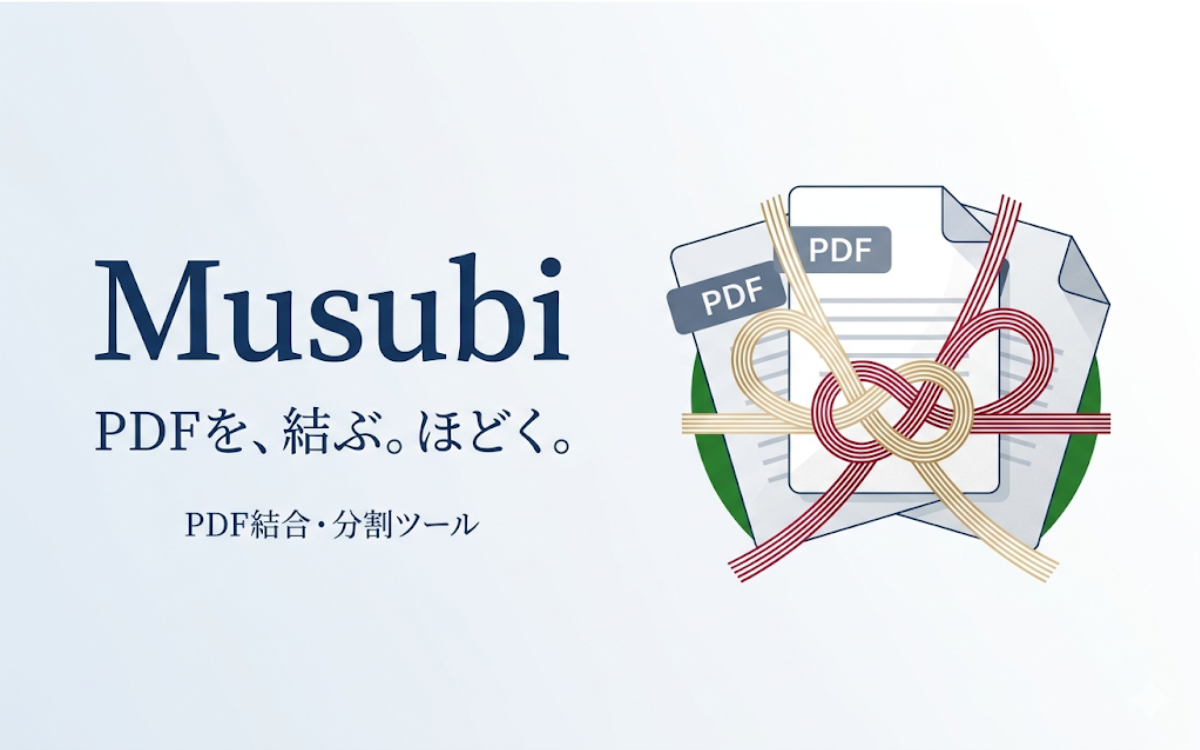
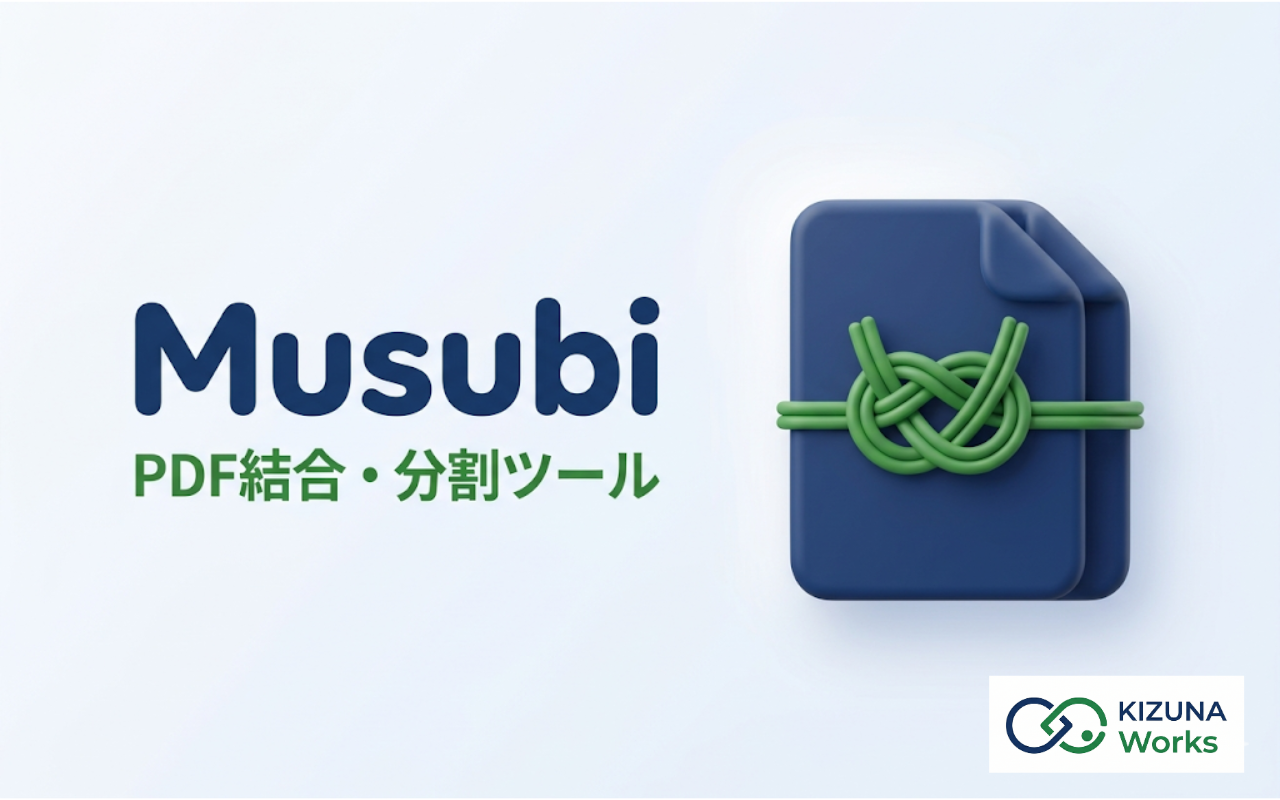
feat(tools): 無料ツール全8種のカードサムネイルをクレイ風で統一
Gemini/Nano Banana で生成したソフト3D（クレイ風・左テキスト＋右アイコン・
ブランド配色）の専用サムネイルに全ツールを統一。

- 上書き: stamp-maker(inkan) / natsuin / musubi のプレビュー画像（各1280×800）
- 新規: tsumugi / masuku / shuku / utsushi のプレビュー画像（各1280×800）
- tools.ts: Tsumugi/Masuku/Shuku/Utsushi を svg 指定→image 指定に変更、
  inkan/Natsuin/Musubi の imageWidth/Height を 1280×800 に更新

diff --git a/src/data/tools.ts b/src/data/tools.ts
@@ -56,9 +56,9 @@ export const tools: Tool[] = [
     miniIcon: '🔴',
     miniDescription: '電子印鑑メーカー',
     image: '/images/stamp-maker-preview.png',
-    imageAlt: 'inkan（電子印鑑メーカー）のプレビュー画像',
-    imageWidth: 949,
-    imageHeight: 813,
+    imageAlt: 'inkan（電子印鑑メーカー）のサムネイル画像',
+    imageWidth: 1280,
+    imageHeight: 800,
   },
   {
     file: 'natsuin.html',
@@ -71,9 +71,9 @@ export const tools: Tool[] = [
     miniIcon: '📄',
     miniDescription: 'PDF捺印ツール',
     image: '/images/natsuin-preview.png',
-    imageAlt: 'Natsuin（PDF捺印ツール）- PDFに電子印鑑・署名を配置できる無料ツール',
-    imageWidth: 2848,
-    imageHeight: 1504,
+    imageAlt: 'Natsuin（PDF捺印ツール）のサムネイル画像',
+    imageWidth: 1280,
+    imageHeight: 800,
   },
   {
     file: 'musubi.html',
@@ -86,8 +86,8 @@ export const tools: Tool[] = [
     miniIcon: '🔗',
     miniDescription: 'PDF結合・分割',
     image: '/images/musubi-preview.png',
-    imageAlt: 'Musubi（PDF結合・分割ツール）- PDFを結合・分割・並び替え・回転できる無料ツール',
-    imageWidth: 1200,
+    imageAlt: 'Musubi（PDF結合・分割ツール）のサムネイル画像',
+    imageWidth: 1280,
     imageHeight: 800,
   },
   {
@@ -100,45 +100,10 @@ export const tools: Tool[] = [
     tags: ['完全無料', '登録不要', 'QRコード生成'],
     miniIcon: '📱',
     miniDescription: 'QRコード生成',
-    svgLabel: 'QRコードジェネレーター',
-    svg: `<svg width="80" height="80" viewBox="0 0 72 72" fill="none" aria-hidden="true">
-            <rect x="2" y="2" width="24" height="24" rx="3" fill="none" stroke="#c8a872" stroke-width="2.5"/>
-            <rect x="8" y="8" width="12" height="12" fill="#c8a872"/>
-            <rect x="46" y="2" width="24" height="24" rx="3" fill="none" stroke="#c8a872" stroke-width="2.5"/>
-            <rect x="52" y="8" width="12" height="12" fill="#c8a872"/>
-            <rect x="2" y="46" width="24" height="24" rx="3" fill="none" stroke="#c8a872" stroke-width="2.5"/>
-            <rect x="8" y="52" width="12" height="12" fill="#c8a872"/>
-            <rect x="30" y="2" width="4" height="4" fill="#c8a872" opacity="0.8"/>
-            <rect x="36" y="2" width="4" height="4" fill="#c8a872" opacity="0.4"/>
-            <rect x="42" y="2" width="4" height="4" fill="#c8a872" opacity="0.8"/>
-            <rect x="30" y="8" width="4" height="4" fill="#c8a872" opacity="0.4"/>
-            <rect x="36" y="8" width="4" height="4" fill="#c8a872" opacity="0.8"/>
-            <rect x="30" y="14" width="4" height="4" fill="#c8a872" opacity="0.8"/>
-            <rect x="42" y="14" width="4" height="4" fill="#c8a872" opacity="0.4"/>
-            <rect x="30" y="20" width="4" height="4" fill="#c8a872" opacity="0.4"/>
-            <rect x="36" y="20" width="4" height="4" fill="#c8a872" opacity="0.8"/>
-            <rect x="42" y="20" width="4" height="4" fill="#c8a872" opacity="0.8"/>
-            <rect x="46" y="30" width="4" height="4" fill="#c8a872" opacity="0.8"/>
-            <rect x="52" y="30" width="4" height="4" fill="#c8a872" opacity="0.4"/>
-            <rect x="58" y="30" width="4" height="4" fill="#c8a872" opacity="0.8"/>
-            <rect x="64" y="30" width="4" height="4" fill="#c8a872" opacity="0.4"/>
-            <rect x="46" y="36" width="4" height="4" fill="#c8a872" opacity="0.4"/>
-            <rect x="52" y="36" width="4" height="4" fill="#c8a872" opacity="0.8"/>
-            <rect x="58" y="36" width="4" height="4" fill="#c8a872" opacity="0.4"/>
-            <rect x="64" y="36" width="4" height="4" fill="#c8a872" opacity="0.8"/>
-            <rect x="46" y="42" width="4" height="4" fill="#c8a872" opacity="0.8"/>
-            <rect x="52" y="42" width="4" height="4" fill="#c8a872" opacity="0.4"/>
-            <rect x="64" y="42" width="4" height="4" fill="#c8a872" opacity="0.8"/>
-            <rect x="46" y="48" width="4" height="4" fill="#c8a872" opacity="0.4"/>
-            <rect x="52" y="48" width="4" height="4" fill="#c8a872" opacity="0.8"/>
-            <rect x="58" y="48" width="4" height="4" fill="#c8a872" opacity="0.8"/>
-            <rect x="64" y="48" width="4" height="4" fill="#c8a872" opacity="0.4"/>
-            <rect x="2" y="30" width="4" height="4" fill="#c8a872" opacity="0.8"/>
-            <rect x="8" y="30" width="4" height="4" fill="#c8a872" opacity="0.4"/>
-            <rect x="14" y="30" width="4" height="4" fill="#c8a872" opacity="0.8"/>
-            <rect x="20" y="30" width="4" height="4" fill="#c8a872" opacity="0.4"/>
-            <rect x="30" y="30" width="10" height="10" fill="#c8a872" opacity="0.6"/>
-          </svg>`,
+    image: '/images/tsumugi-preview.png',
+    imageAlt: 'Tsumugi（QRコードジェネレーター）のサムネイル画像',
+    imageWidth: 1280,
+    imageHeight: 800,
   },
   {
     file: 'masuku.html',
@@ -150,15 +115,10 @@ export const tools: Tool[] = [
     tags: ['完全無料', '登録不要', 'マスキング'],
     miniIcon: '⬛',
     miniDescription: '画像/PDFマスキング',
-    svgLabel: 'マスキングツール',
-    svg: `<svg width="80" height="80" viewBox="0 0 64 64" fill="none" aria-hidden="true">
-            <rect x="4" y="10" width="56" height="44" rx="4" fill="#23252c" stroke="#c8a872" stroke-width="2.5"/>
-            <rect x="10" y="18" width="20" height="14" rx="2" fill="#c8a872" opacity="0.3"/>
-            <line x1="34" y1="22" x2="54" y2="22" stroke="#c8a872" stroke-width="2" stroke-linecap="round" opacity="0.5"/>
-            <line x1="34" y1="28" x2="54" y2="28" stroke="#c8a872" stroke-width="2" stroke-linecap="round" opacity="0.3"/>
-            <rect x="10" y="38" width="44" height="10" rx="2" fill="#c8a872" opacity="0.85"/>
-            <line x1="14" y1="43" x2="50" y2="43" stroke="#1a1b20" stroke-width="2.5" stroke-linecap="round" opacity="0.5"/>
-          </svg>`,
+    image: '/images/masuku-preview.png',
+    imageAlt: 'Masuku（画像・PDFマスキングツール）のサムネイル画像',
+    imageWidth: 1280,
+    imageHeight: 800,
   },
   {
     file: 'Shuku.html',
@@ -170,18 +130,10 @@ export const tools: Tool[] = [
     tags: ['完全無料', '登録不要', '画像変換'],
     miniIcon: '📦',
     miniDescription: '画像圧縮ツール',
-    svgLabel: '画像変換・圧縮・リサイズ',
-    svg: `<svg width="80" height="80" viewBox="0 0 64 64" fill="none" aria-hidden="true">
-            <rect x="6" y="6" width="28" height="28" rx="3" fill="#c8a872" opacity="0.25" stroke="#c8a872" stroke-width="1.5"/>
-            <rect x="6" y="6" width="28" height="28" rx="3" fill="none" stroke="#c8a872" stroke-width="1.5"/>
-            <rect x="10" y="10" width="20" height="14" rx="1.5" fill="#c8a872" opacity="0.5"/>
-            <circle cx="13" cy="14" r="2" fill="#c8a872" opacity="0.8"/>
-            <path d="M10 24l6-5 5 4 4-3 5 4" stroke="#c8a872" stroke-width="1.2" stroke-linecap="round" fill="none" opacity="0.8"/>
-            <path d="M40 20 L58 20 M40 28 L54 28" stroke="#c8a872" stroke-width="2" stroke-linecap="round" opacity="0.6"/>
-            <path d="M44 34 L60 34 L60 58 L44 58 Z" fill="#c8a872" opacity="0.15" stroke="#c8a872" stroke-width="1.5"/>
-            <path d="M48 46 L52 42 L56 46" stroke="#c8a872" stroke-width="1.5" stroke-linecap="round" fill="none"/>
-            <path d="M52 42 L52 52" stroke="#c8a872" stroke-width="1.5" stroke-linecap="round"/>
-          </svg>`,
+    image: '/images/shuku-preview.png',
+    imageAlt: 'Shuku（画像変換・圧縮・リサイズツール）のサムネイル画像',
+    imageWidth: 1280,
+    imageHeight: 800,
   },
   {
     file: 'Utsushi.html',
@@ -193,17 +145,10 @@ export const tools: Tool[] = [
     tags: ['完全無料', '登録不要', 'PDF→HTML'],
     miniIcon: '📑',
     miniDescription: 'PDF→HTML変換',
-    svgLabel: 'PDF→HTML変換',
-    svg: `<svg width="80" height="80" viewBox="0 0 64 64" fill="none" aria-hidden="true">
-            <rect x="10" y="6" width="30" height="40" rx="3" fill="#23252c" stroke="#c8a872" stroke-width="2.5"/>
-            <path d="M32 6 L40 6 L40 14 Z" fill="#c8a872" opacity="0.35"/>
-            <line x1="15" y1="16" x2="31" y2="16" stroke="#c8a872" stroke-width="2" stroke-linecap="round" opacity="0.55"/>
-            <line x1="15" y1="22" x2="35" y2="22" stroke="#c8a872" stroke-width="2" stroke-linecap="round" opacity="0.35"/>
-            <line x1="15" y1="28" x2="33" y2="28" stroke="#c8a872" stroke-width="2" stroke-linecap="round" opacity="0.35"/>
-            <path d="M36 34 L48 28 L48 40 Z" fill="#c8a872" opacity="0.9"/>
-            <rect x="34" y="36" width="26" height="22" rx="3" fill="#c8a872" opacity="0.18" stroke="#c8a872" stroke-width="2"/>
-            <text x="47" y="51" font-family="monospace" font-size="9" font-weight="700" fill="#c8a872" text-anchor="middle" opacity="0.95">&lt;/&gt;</text>
-          </svg>`,
+    image: '/images/utsushi-preview.png',
+    imageAlt: 'Utsushi（PDF→HTML変換ツール）のサムネイル画像',
+    imageWidth: 1280,
+    imageHeight: 800,
   },
   {
     file: 'Shirushi.html',
